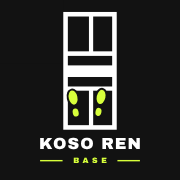
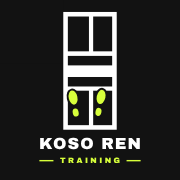
アプリ名をKOSO REN TRAININGに変更
- アイコンの文字を BASE → TRAINING に差し替え（全サイズ再生成）
- アプリ名・タイトル・ヘッダーを KOSO REN TRAINING に（ホーム画面の短い名前は KOSO REN）
- スマホ幅ではヘッダー右上のアカウント表示をアイコンだけにして、ロゴが切れないように
- Service Worker を v5 に更新

Claude-Session: https://claude.ai/code/session_012FEaVj5Hu6gukdjVEtHXrj

Changed region(s): [[0.2778, 0.8611, 0.7222, 0.9167]]

diff --git a/public/app.js b/public/app.js
@@ -1,6 +1,6 @@
 'use strict';
 /* =========================================================
-   KOSO REN BASE — バドミントン基礎トレのカウントダウン＆記録アプリ
+   KOSO REN TRAINING — バドミントン基礎トレのカウントダウン＆記録アプリ
    アカウントを選ぶとサーバー(Cloud Storage)に同期、選ばなければ端末だけに保存
    ========================================================= */
 
@@ -324,8 +324,8 @@ function renderHome() {
   }).join('') : `<div class="empty">メニューがありません。<br>右下の＋から作成しよう</div>`;
 
   app.innerHTML = `
-    <div class="top"><h1 class="brand"><img src="icon-192.png" alt="" width="34" height="34">KOSO REN <span>BASE</span></h1>
-      ${online() ? `<button class="me-chip" data-act="switch-acct">${avatar(session, false, true)}${esc(session.name)} <span id="sync" class="sync">☁</span></button>` : `<button class="me-chip" data-act="switch-acct">アカウント</button>`}</div>
+    <div class="top"><h1 class="brand"><img src="icon-192.png" alt="" width="34" height="34">KOSO REN <span>TRAINING</span></h1>
+      ${online() ? `<button class="me-chip" data-act="switch-acct" aria-label="${esc(session.name)}（アカウント切り替え）">${avatar(session, false, true)}<span class="chip-name">${esc(session.name)}</span><span id="sync" class="sync">☁</span></button>` : `<button class="me-chip" data-act="switch-acct">アカウント</button>`}</div>
     <div class="card streak">
       <div class="flame ${doneToday ? 'on' : ''}">🔥</div>
       <div><div class="streak-num">${st}<small>日連続</small></div><div class="streak-msg">${msg}</div></div>
@@ -691,7 +691,7 @@ function renderAccounts() {
   const list = accts || [];
   app.innerHTML = `
     <div class="acc">
-      <div class="login-hero"><img src="icon-192.png" alt="KOSO REN BASE" width="96" height="96"><h1>誰がトレーニングする？</h1>
+      <div class="login-hero"><img src="icon-192.png" alt="KOSO REN TRAINING" width="96" height="96"><h1>誰がトレーニングする？</h1>
         <p class="muted">${acctManage ? '✎で名前変更、🗑で削除できます' : 'アカウントを選んでください'}</p></div>
       ${acctsErr ? `<div class="err">${esc(acctsErr)}</div>` : ''}
       <div class="acc-grid">

diff --git a/public/style.css b/public/style.css
@@ -211,7 +211,12 @@ input{font:inherit}
 @keyframes wiggle{25%{transform:rotate(-1.5deg)}75%{transform:rotate(1.5deg)}}
 
 /* ---------- brand ---------- */
-.brand{display:flex;align-items:center;gap:8px;letter-spacing:.02em}
+.brand{display:flex;align-items:center;gap:8px;letter-spacing:.02em;font-size:clamp(14px,4.3vw,18px);white-space:nowrap;min-width:0}
+.top{gap:8px}
+.top h1.brand{font-size:clamp(14px,4.2vw,18px);flex:1 1 auto;overflow:hidden}
+.me-chip{flex:0 0 auto;min-width:0;max-width:38%}
+.chip-name{overflow:hidden;text-overflow:ellipsis}
+@media(max-width:440px){.chip-name{display:none}}
 .brand img{border-radius:9px}
 .brand span{color:var(--green-d)}
 .login-hero img{border-radius:22px;box-shadow:none}

diff --git a/public/index.html b/public/index.html
@@ -6,8 +6,8 @@
 <meta name="theme-color" content="#121212">
 <meta name="apple-mobile-web-app-capable" content="yes">
 <meta name="apple-mobile-web-app-status-bar-style" content="default">
-<meta name="apple-mobile-web-app-title" content="KOSO REN BASE">
-<title>KOSO REN BASE</title>
+<meta name="apple-mobile-web-app-title" content="KOSO REN">
+<title>KOSO REN TRAINING</title>
 <link rel="manifest" href="manifest.webmanifest">
 <link rel="icon" href="icon.svg" type="image/svg+xml">
 <link rel="apple-touch-icon" href="apple-touch-icon.png">

diff --git a/public/sw.js b/public/sw.js
@@ -1,5 +1,5 @@
 // オフラインでも使えるようにアプリ本体をキャッシュ（更新時は VERSION を上げる）
-const VERSION = 'badtore-v4';
+const VERSION = 'badtore-v5';
 const ASSETS = ['./', 'index.html', 'style.css', 'app.js', 'manifest.webmanifest', 'icon.svg', 'icon-192.png', 'icon-512.png', 'icon-maskable-512.png', 'apple-touch-icon.png'];
 self.addEventListener('install', e => {
   e.waitUntil(caches.open(VERSION).then(c => c.addAll(ASSETS)).then(() => self.skipWaiting()));

diff --git a/server.js b/server.js
@@ -1,6 +1,6 @@
 'use strict';
 /* =========================================================
-   KOSO REN BASE サーバー
+   KOSO REN TRAINING サーバー
    - public/ の静的ファイル配信
    - /api/* : アカウント（追加・名前変更・削除）、データ同期、メンバー閲覧
      ※ パスワードなし。最初にアカウントを選ぶだけの簡易方式

diff --git a/README.md b/README.md
@@ -1,6 +1,6 @@
-# KOSO REN BASE
+# KOSO REN TRAINING
 
-<img src="public/icon-512.png" width="160" alt="KOSO REN BASE アイコン">
+<img src="public/icon-512.png" width="160" alt="KOSO REN TRAINING アイコン">
 
 バドミントンの基礎トレ（体幹・フットワーク）を音声カウントダウンで実施し、記録と連続日数（🔥ストリーク）を残す Web アプリ（PWA）です。
 GitHub に push すると Cloud Run に自動デプロイされます。
